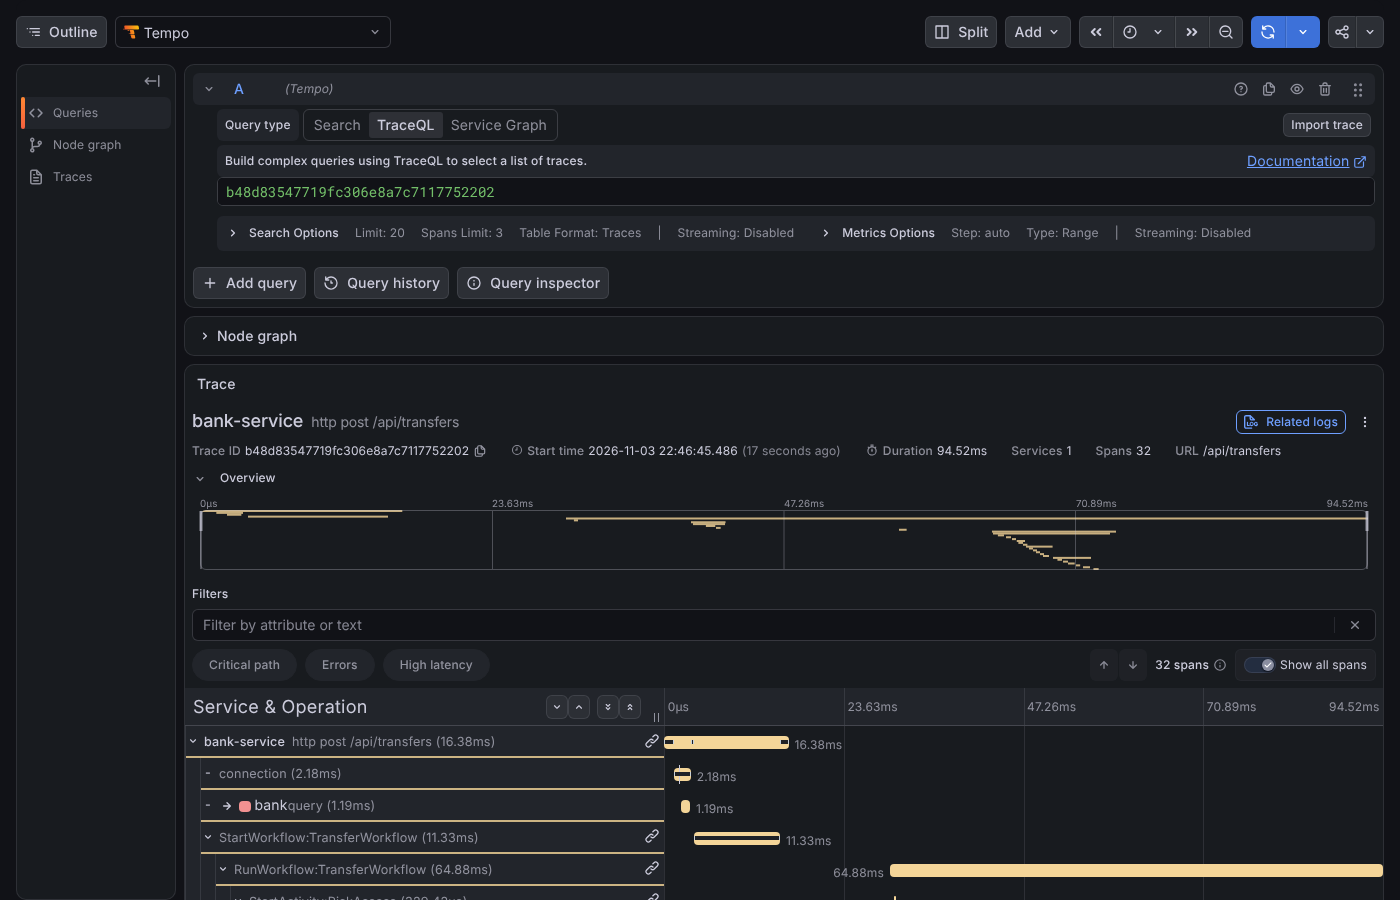
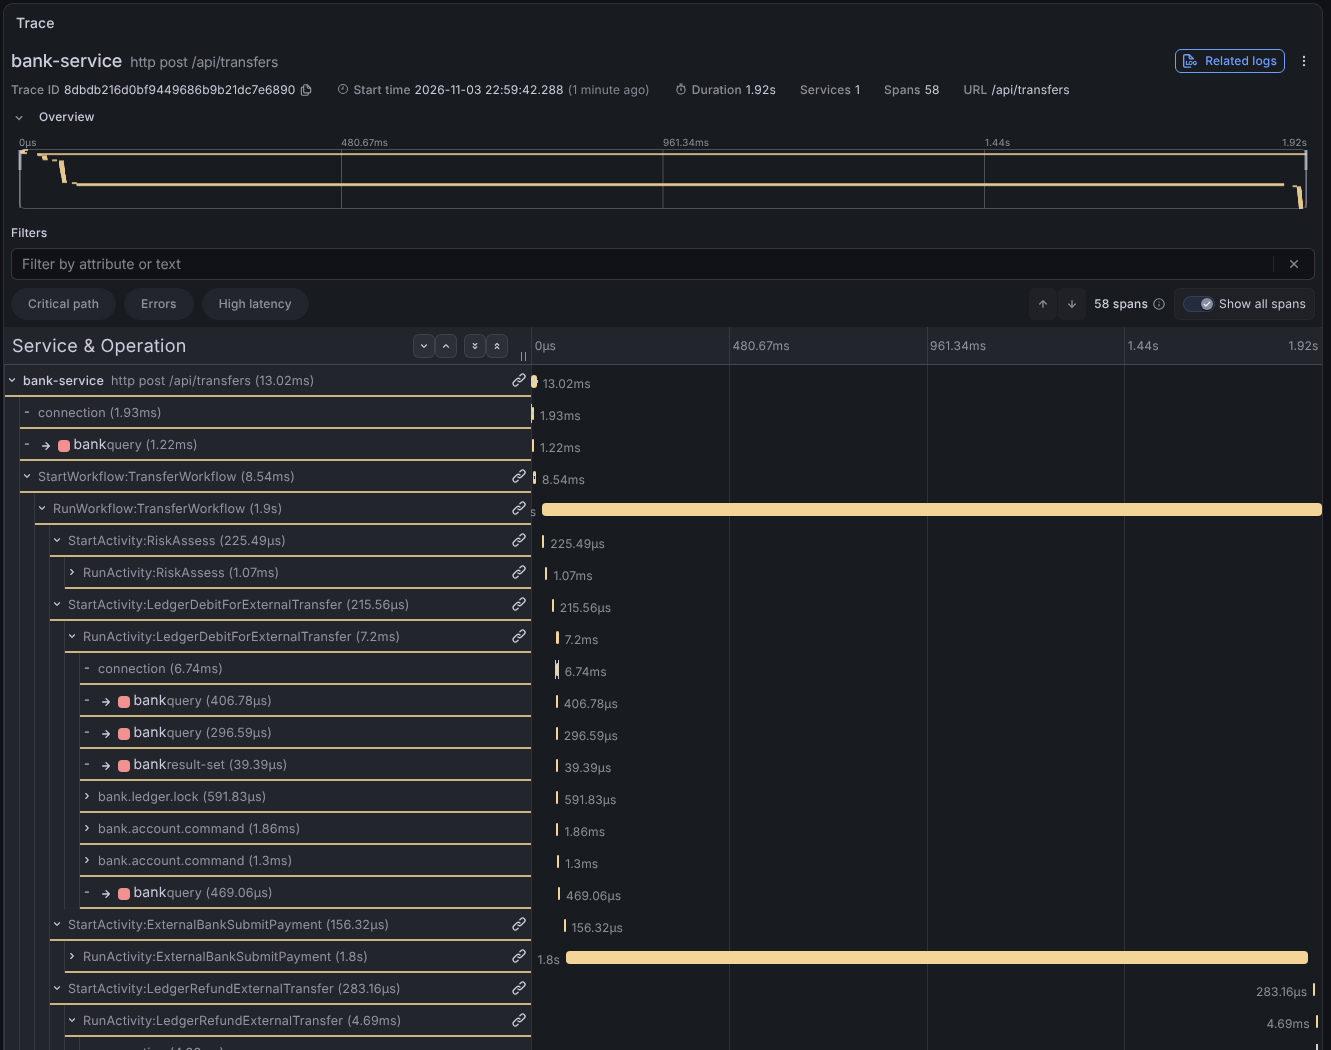
Showcase docs: a refunded external transfer as the trace example
Claude-Session: https://claude.ai/code/session_01LtMzBeexKXojeBoeLsLGf6

diff --git a/docs/showcase.md b/docs/showcase.md
@@ -45,9 +45,10 @@ The accounts have no names: the bank only knows pseudonymous IDs (see [decision 
 
 1. **The UI** (http://localhost:8080): transfers keep coming in. The generated accounts show up with their IDs, because nicknames only live in your browser. Open two accounts of your own with *New account* (give them nicknames), deposit something and send a transfer between them.
 2. **One transfer from the click to the SQL:** open your transfer in the drawer and follow *Trace in Grafana*. You see the click in the browser (`bank-ui`), the REST call, the workflow with its activities, the row lock and the SQL statements, all in one trace.
-   The transfers of the generator have the same trace, only without the browser part:
+   The transfers of the generator have the same trace, only without the browser part. Here an external transfer the
+   external bank rejected: risk check, debit with the row lock and the SQL, the call to the external bank, the refund.
 
-   ![A transfer of the demo traffic in Tempo](images/showcase-trace.png)
+   ![A refunded external transfer of the demo traffic in Tempo](images/showcase-trace.png)
 3. **The overview dashboard** (Grafana → Dashboards → PowerBank → *PowerBank overview*):
    - transfers per minute by outcome;
    - the ledger sum, which stays at 0;
